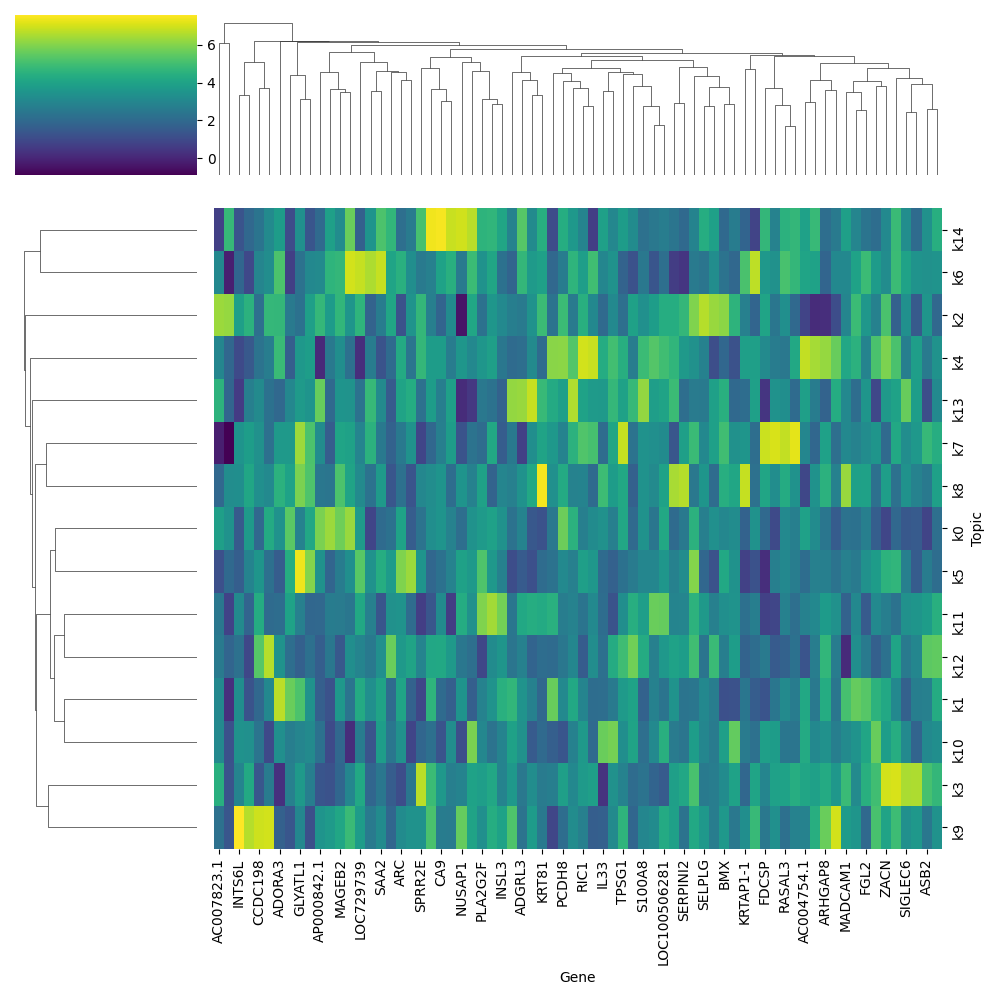
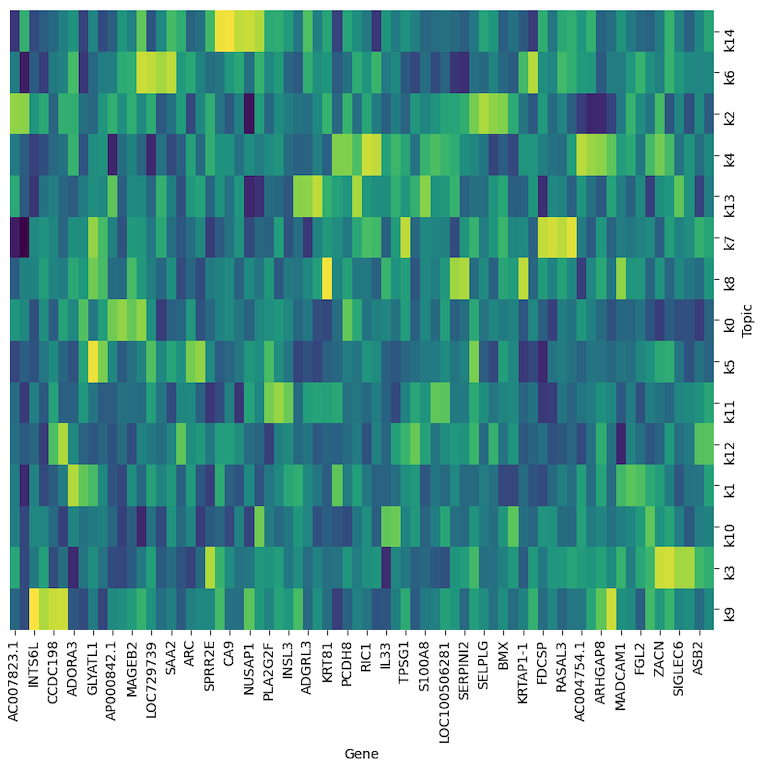
update projs

diff --git a/_projects/3_project.md b/_projects/3_project.md
@@ -8,15 +8,15 @@ category: project-ideas
 related_publications: false
 ---
 
-<span style="color:#2a9d8f; font-size:30px; font-weight:bold;">
-Dual embedded neural networks for biological interpretability
+<span style="color:#2698ba; font-size:30px; font-weight:bold;">
+Attentive neural networks for biological interpretability
 </span>
 
 The biological interpretability of deep learning models has been a challenging and intriguing problem. 
 
 The primary objective of this project is to evaluate a deep learning model with robust biological interpretability.
 
-A model, named as AttnCell ( model explains where to pay "attention" from "cell" data ) is focused on learning the following biological information:
+A model, named AttnCell (where to pay "attention" in "cell" data) is focused on learning the following biological information:
 - gene interaction networks
 - activity of pathways in a cell
 - contribution of genes in pathways
@@ -34,7 +34,7 @@ We train the model using a variational inference algorithm and maximize the evid
 Preliminary results using normal pancreas data from [Seurat](https://satijalab.org/seurat/archive/v3.2/integration.html).
 
 
-- Interpretability1: Gene interaction networks are learned by the attention module in the model. The figure illustrates examples of known marker genes, including NPTX2/DLK1 for beta cells, LEPR/RBP4 for delta cells, and PLA2G1B/CPA1 for acinar cells, in the human pancreas.
+- **Interpretability1**: Gene interaction networks are learned by the attention module in the model. The figure illustrates examples of known marker genes, including NPTX2/DLK1 for beta cells, LEPR/RBP4 for delta cells, and PLA2G1B/CPA1 for acinar cells, in the human pancreas.
 
 <div class="row">
     <div style="width: 100%; margin: 0 auto;">
@@ -45,7 +45,7 @@ Preliminary results using normal pancreas data from [Seurat](https://satijalab.o
  Gene network learned by the model.
 </div>
 
-- Interpretability2: The activity of pathways in cells, which generally determines cell type identity, can be captured by analyzing the UMAP representation of cells based on the latent space learned by the model. Here, cell type-specific clusters suggest that the factors learned by the model are biologically relevant. 
+- **Interpretability2**: The activity of pathways in cells, which generally determines cell type identity, can be captured by analyzing the UMAP representation of cells based on the latent space learned by the model. Here, cell type-specific clusters suggest that the factors learned by the model are biologically relevant. 
 
 
 <div class="row">
@@ -58,7 +58,7 @@ Preliminary results using normal pancreas data from [Seurat](https://satijalab.o
 </div>
 
 
-- Interpretability3: Contribution of genes in pathways learned as factors/topics in the model. We can further investigate different gene activity in each factor using pathway analysis.
+- **Interpretability3**: Contribution of genes in pathways learned as factors/topics in the model. We can further investigate different gene activity in each factor using pathway analysis.
 
 
 <div class="row">

diff --git a/_projects/1_project.md b/_projects/1_project.md
@@ -8,7 +8,7 @@ category: project-ideas
 related_publications: false
 ---
 
-<span style="color:#2a9d8f; font-size:30px; font-weight:bold;">
+<span style="color:#2698ba; font-size:30px; font-weight:bold;">
 Graph neural networks (GNN) for latent space decomposition
 </span>
 
@@ -29,10 +29,10 @@ The updated Biolord model, named **GRASP for Graph Representation Analysis for S
 
 **Attribute-specific graphs**: Next, in a low-dimensional space, we identify similar cells from different groups. This approach will construct a cell-cell similarity graph in adjacent matrix format such that each cell has an edge with similar cells that belong to different labels. For example, if we have batch and cell-type labels, we will generate batch and cell-type-based graphs. In a batch-based graph, edges are constructed between similar cells from different batches (most likely from the same cell type). Similarly, in a cell type-based graph, edges are constructed between similar cells from different cell types (most likely from the same batch).
 
-**Why graphs?** First, we build a single graph in mixed space, rather than attribute-specific multiple modules, in Biolord. ** We use the graph repeatedly to construct attribute-specific representations. This will provide scalability to the model. Second, when we use attribute-specific graphs, we can learn shared effects specific to each attribute. We can guide the shared effect to generate attribute-specific latent space.
+**Why graphs?** First, a single graph in mixed space replaces attribute-specific multiple modules presented in Biolord. We can use the graph repeatedly to construct attribute-specific representations. This will provide scalability to the model. Second, when we use attribute-specific graphs, we can learn shared effects specific to the attribute. We can guide the shared effect using GNN to generate attribute-specific latent space.
 
 
-**Simplified training**: In Biolord, we have many attribute-specific losses, but in GRASP, we have only two losses- 
+**Simplified training**: In Biolord, we have multiple attribute-specific losses, but in GRASP, we have only two losses- 
 - reconstruction loss and 
 - alignment loss to encourage independence among attribute-specific factors. 
 

diff --git a/_projects/2_project.md b/_projects/2_project.md
@@ -8,17 +8,17 @@ category: data-science
 related_publications: false
 ---
 
-<span style="color:#2a9d8f; font-size:30px; font-weight:bold;">
+<span style="color:#2698ba; font-size:30px; font-weight:bold;">
 Data embedding in representation learning
 </span>
 
-In this project, we discuss major linear and nonlinear models used in single-cell fields for embedding gene expression data.
+In this project, we discuss computational methods used in the single-cell analysis for embedding gene expression data.
 
 The genomic data is ever-increasing in size and complexity. Technological advancements have enabled us to generate multimodal omics data from millions of cells. This large-scale data poses many challenges for researchers to extract true biological signals for discovery. 
 
 One approach to systematically learning complex biological data is to leverage the inherent features of biological mechanisms, i.e., genomic features often act in modules. We are interested in identifying hidden patterns that represent abstract concepts in the data and then linking those concepts to known biological modules or pathways using prior knowledge of genomic features.
 
-<span style="color:#2a9d8f; font-size:20px; font-weight:bold;">
+<span style="color:#2698ba; font-size:20px; font-weight:bold;">
 How do we learn abstract concepts from biological data?
 </span>
 
@@ -34,7 +34,7 @@ The computational methods used for latent variable modelling can be broadly clas
 </div>
 
 
-<span style="color:#2a9d8f; font-size:20px; font-weight:bold;">
+<span style="color:#2698ba; font-size:20px; font-weight:bold;">
 Data embedding
 </span>
 

diff --git a/_pages/about.md b/_pages/about.md
@@ -30,4 +30,4 @@ I am interested in applying computational tools and technologies to address chal
 
 Currently, I am a **Ph.D Candidate** (thesis submitted) in [Bioinformatics program](https://www.bioinformatics.ubc.ca/) at [University of British Columbia](https://www.ubc.ca/). I am also a **Pre-Doctoral Research Fellow** in [Causal Path Lab](https://ypark.github.io/) Molecular Oncology department in [British Columbia Cancer Research Center](https://www.bccrc.ca/). I develop computational frameworks for large-scale omics data. I focus on interpretability, scalability, and integrative approach to data modelling. I apply these methods to cancer datasets for insights into disease biology.
 
-In the past, I worked as a bioinformatician in a molecular diagnostics laboratory, where I was a lead developer of bioinformatics platforms for oncology diagnostics assays. Additionally, I have spent some time working in biomedical research labs as well as in tech companies.
+In the past, I worked as a bioinformatician in a [molecular diagnostics laboratory](https://www.houstonmethodist.org/for-health-professionals/department-programs/pathology-genomic-medicine/diagnostic-laboratories/), where I was a lead developer of bioinformatics platforms for oncology diagnostics assays. Additionally, I have spent some time working in biomedical research labs as well as in tech companies.

diff --git a/_pages/projects.md b/_pages/projects.md
@@ -2,12 +2,16 @@
 layout: page
 title: Projects
 permalink: /projects/
-description:  Project ideas and interesting topics related to data science.
+description: 
 nav: true
 nav_order: 3
 display_categories: [ project-ideas, data-science]
 horizontal: false
 ---
+
+<span style="color:#2698ba; font-size:30px; font-weight:bold;">
+Project ideas and interesting topics related to data science.
+</span>
 
 <!-- pages/projects.md -->
 <div class="projects">

diff --git a/_pages/publications.md b/_pages/publications.md
@@ -12,6 +12,8 @@ nav_order: 2
 
 <!-- Bibsearch Feature -->
 
+Full list on [google scholar](https://scholar.google.ca/citations?user=xDTNsgEAAAAJ&hl=en).
+
 {% include bib_search.liquid %}
 
 <div class="publications">
